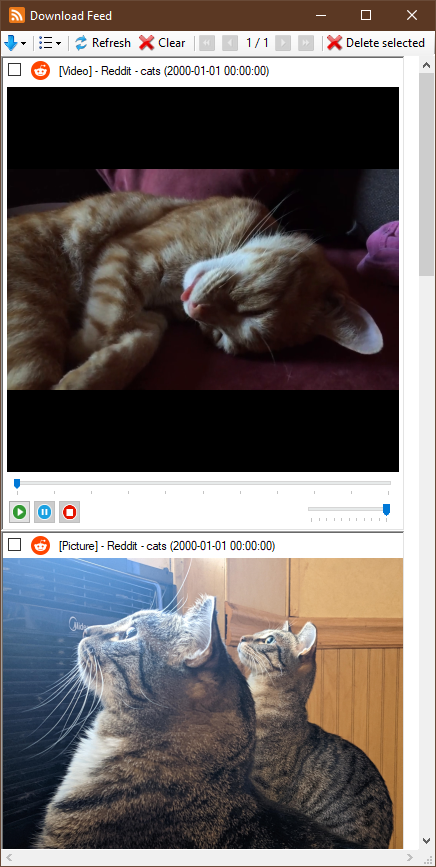
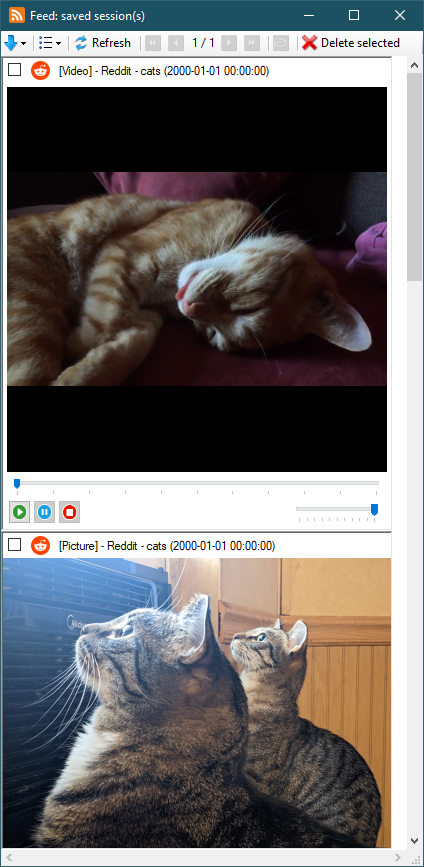
2024.2.25.0

diff --git a/FAQ.md b/FAQ.md
@@ -14,8 +14,6 @@ Any other questions I will keep in this file.
 
 A: https://github.com/AAndyProgram/SCrawler/wiki/Settings#how-to-set-up-cookies
 
-<!---**ATTENTION! If you need to use cookies but cannot import them, I highly recommend that you don't use SCrawler and use another program. Don't create issues, discussions, or write to me on Discord. Any issue or discussion about cookies will be deleted immediately without a response. Any user who asks me about cookies on Discord will be banned.**--->
-
 ----
 
 #### Q: **Does this program have GUI or CLI.**
@@ -41,13 +39,16 @@ A: NO.
 
 A: Check your credentials and **[SITES REQUIREMENTS](https://github.com/AAndyProgram/SCrawler/wiki/Settings#sites-requirements)**. If all settings are set, but nothing works, go to [create a new issue](https://github.com/AAndyProgram/SCrawler/issues). Don't forget to attach the LOG.
 
+**You also can join our Discord server**: https://discord.gg/uFNUXvFFmg
+<br/>*You can get help faster there!*
+
 **ATTENTION! Issues without URLs will be closed without a response!**
 
 ----
 
 #### Q: **I have set credentials but still nothing is downloading**
 
-A: Click the ```Start downloading``` button
+A: Click the `Start downloading` button or press `F5`
 
 ----
 
@@ -59,7 +60,7 @@ A: https://github.com/AAndyProgram/SCrawler/releases/latest
 
 #### Q: **How to run the program?**
 
-A: Double-click ```SCrawler.exe```
+A: Double-click `SCrawler.exe`
 
 ----
 
@@ -77,19 +78,19 @@ A: The program stored posts IDs in users' folders. For the first time, the progr
 
 #### Q: **How to redownload all data**
 
-A: Double-click on the user you want to redownload. In the opened window open folder setting. Delete the files ending with ```_Data.xml```  and ```_Posts.txt```. Restart SCrawler. Download this user again.
+A: https://github.com/AAndyProgram/SCrawler/wiki#redownload-user
 
 ----
 
 #### Q: **How to remove the label**
 
-A: There is no functionality to remove an individual label. You can open the ```Labels.txt``` file in the program settings folder and delete any label you want. You also can delete this file (```Labels.txt```). In this case, when the program starts, the list of labels list will be updated with only existing labels (from the user data files).
+A: There is no functionality to remove an individual label. You can open the `Labels.txt` file in the program settings folder and delete any label you want. You also can delete this file (`Labels.txt`). In this case, when the program starts, the list of labels list will be updated with only existing labels (from the user data files).
 
 ----
 
 #### Q: **How to remove a user from the blacklist**
 
-A: Just add that user back to the program. In the dialog box that opens, click on the ```Add and remove from blacklist``` button.
+A: Just add that user back to the program. In the dialog box that opens, click on the `Add and remove from blacklist` button.
 
 ----
 
@@ -113,8 +114,8 @@ A: I can only [suggest](#q-you-lost-me-your-program-is-too-complicated) you find
 
 #### Q: **Can you add a step-by-step guide or video on how to use the program?**
 
-A: **NO! NEVER!** The guide fully covers all the functionality of SCrawler! If you don't respect my work, I don't waste my time. If you want, you can create a video tutorial and send it to me. Then I add it. All options and what each option does described on the wiki. The wiki also contains a description of all settings and how-to configure them. For complex settings, there is a steep-by-steep guide. Read the [main](README.md) information and [GUIDE](https://github.com/AAndyProgram/SCrawler/wiki/) and you won't have any problems. I have developed a program with an intuitive interface. There is a Settings button, download buttons, a context menu that drops down when a user is clicked, and other controls. Anyone can use it.
+A: **NO!** The guide fully covers all the functionality of SCrawler! If you don't respect my work, I don't waste my time. If you want, you can create a video tutorial and send it to me. Then I add it. All options and what each option does described on the wiki. The wiki also contains a description of all settings and how-to configure them. For complex settings, there is a steep-by-steep guide. Read the [main](README.md) information and [GUIDE](https://github.com/AAndyProgram/SCrawler/wiki/) and you won't have any problems. I have developed a program with an intuitive interface. There is a Settings button, download buttons, a context menu that drops down when a user is clicked, and other controls. Anyone can use it.
 
-**The following video shows how to add credentials:**
+**The following video was recorded by a user who loves SCrawler and demonstrates how to add credentials using Instagram as an example:**
 
 [![How to configure](https://img.youtube.com/vi/XDn7zG4I700/0.jpg)](https://www.youtube.com/watch?v=XDn7zG4I700)

diff --git a/README.md b/README.md
@@ -15,6 +15,10 @@
 A program to download photo and video from [any site](#supported-sites) (e.g. YouTube, YouTube Music, OnlyFans, Reddit, Twitter, Mastodon, Instagram, Threads, Facebook, TikTok, RedGifs, JustForFans, PornHub, XHamster, XVIDEOS, ThisVid, LPSG, Pinterest).
 
 **If you like SCrawler, please like the program on [this site](https://alternativeto.net/software/scrawler/about/) and/or [this](https://www.softpedia.com/get/Internet/Download-Managers/Social-networks-crawler.shtml)**
+
+**Join our Discord server**: https://discord.gg/uFNUXvFFmg
+<br/>*If you have problems using the program, you can get help faster on our Discord server!*
+
 <!---Do you like this program? Consider adding to my coffee fund by making a donation to show your support. :blush:
 [![ko-fi](https://www.ko-fi.com/img/githubbutton_sm.svg)](https://ko-fi.com/andyprogram)--->
 **Bitcoin**: BC1Q0NH839FT5TA44DD7L7RLR97XDQAG9V8D6N7XET
@@ -74,12 +78,12 @@ A program to download photo and video from [any site](#supported-sites) (e.g. Yo
 - **YouTube Music**
 - **Reddit**
 - **Twitter**
-- **OnlyFans**
+- **OnlyFans** *(partial support)*[^1]
 - **Mastodon**
 - **Instagram**
 - **Threads**
 - **Facebook**
-- JustForFans
+- JustForFans *(partial support)*[^1]
 - TikTok
 - RedGifs
 - Pinterest
@@ -163,6 +167,8 @@ Just download [latest](https://github.com/AAndyProgram/SCrawler/releases/latest)
 
 **You can also use the updater included in the release package.**
 
+# [How to report a problem](CONTRIBUTING.md#how-to-report-a-problem)
+
 # [How to build from source](CONTRIBUTING.md#how-to-build-from-source)
 
 # [How to make a plugin](https://github.com/AAndyProgram/SCrawler/wiki/Plugins)
@@ -220,3 +226,5 @@ Discord server: https://discord.gg/uFNUXvFFmg
 
 [Wire](https://account.wire.com/user-profile/?id=93985052-cf2c-4b72-ac75-bbe3231cf544): @andyprogram
 -->
+
+[^1]: Partial support means that I don't have personal accounts on paid porn sites because I don't pay for porn. If this site has stopped downloading and you want me to fix it, please be ready to give me access to an account with at least one active subscription. Otherwise, the download from this site will not be fixed.

diff --git a/Changelog.md b/Changelog.md
@@ -1,3 +1,37 @@
+# 2024.2.25.0
+
+*2024-02-25*
+
+- Added
+  - A `Feed` button has been added to notifications
+  - Feed:
+    - ability to merge multiple special feeds into one
+    - ability to select all/none media
+    - ability to add to a special feed(s) with removal from the current one
+    - the name of the loaded feed is now displayed in the form title
+    - `Refresh` button now refreshes the loaded feed
+    - ability to move/copy media
+  - Scheduler: the ability to move tasks (higher, lower) *(just a view attribute, doesn't affect the scheduler)*
+  - YouTube (standalone app): add `Open file` to the context menu
+  - YouTube (standalone app): **the ability to edit each playlist item**
+  - YouTube (standalone app): **embed thumbnail in the audio/video as cover art** (Settings: `Defaults Audio` - `Embed thumbnail`; `Defaults Video` - `Embed thumbnail (video)`)
+  - Instagram: the `csrftoken` can now be automatically extracted from cookies
+  - Instagram: remove `x-ig-www-claim` from settings
+  - Threads: the `csrftoken` can now be automatically extracted from cookies
+  - Threads: simplify 500 error when updating tokens
+  - Facebook: simplify token update errors
+  - OnlyFans: handle 500 error
+  - Plugins: added `ReplaceInternalPluginAttribute` attribute
+  - Other improvements
+- Fixed
+  - Main window: incorrect sorting of profiles and collections
+  - Standalone downloader: url array form doesn't show scrollbars
+  - Feed: image rendering bug
+  - YouTube (standalone app): audio codec does not change when changing audio/video in the video options form
+  - Instagram: error downloading single post
+  - TikTok: files with long names aren't downloaded
+  - Minor bugs
+
 # 2024.1.26.0
 
 *2024-01-26*

diff --git a/CONTRIBUTING.md b/CONTRIBUTING.md
@@ -5,7 +5,12 @@ I welcome requests! Follow these steps to contribute:
 1. Find an [issue](https://github.com/AAndyProgram/SCrawler/issues) that needs assistance.
 1. Let me know you are working on it by posting a comment on the issue.
 1. If you find an error in the code, please provide a link to the file and the line number.
-1. If you have a code change suggestion, you can post a replacement code block. I also accept pull requests.
+1. If you have a code change suggestion, you can post a replacement code block.<!-- I also accept pull requests.-->
+
+# How to report a problem
+1. Attach a **profile URL** that you cannot download.
+1. Attach the **LOG** if it exists.
+1. **Attach information to the issue with data copied from SCrawler (click the top right info button in the main window, then the `Environment` button, then the `Copy` button, and paste the copied text into the issue).**
 
 # How to build from source
 1. Delete the `PersonalUtilities` project from the solution.

diff --git a/Plugins.md b/Plugins.md
@@ -2,6 +2,8 @@ You can create a plugin for any site you want. **To create a plugin, read [this 
 
 If you've created a plugin, you can create a [new issue](https://github.com/AAndyProgram/SCrawler/issues/new?assignees=&labels=New+Plugin&projects=&template=plugin_add.md&title=%5BNEW+PLUGIN%5D) and I'll add your plugin to the list below.
 
+----
+
 List of available plugins:
 
 Tools:
